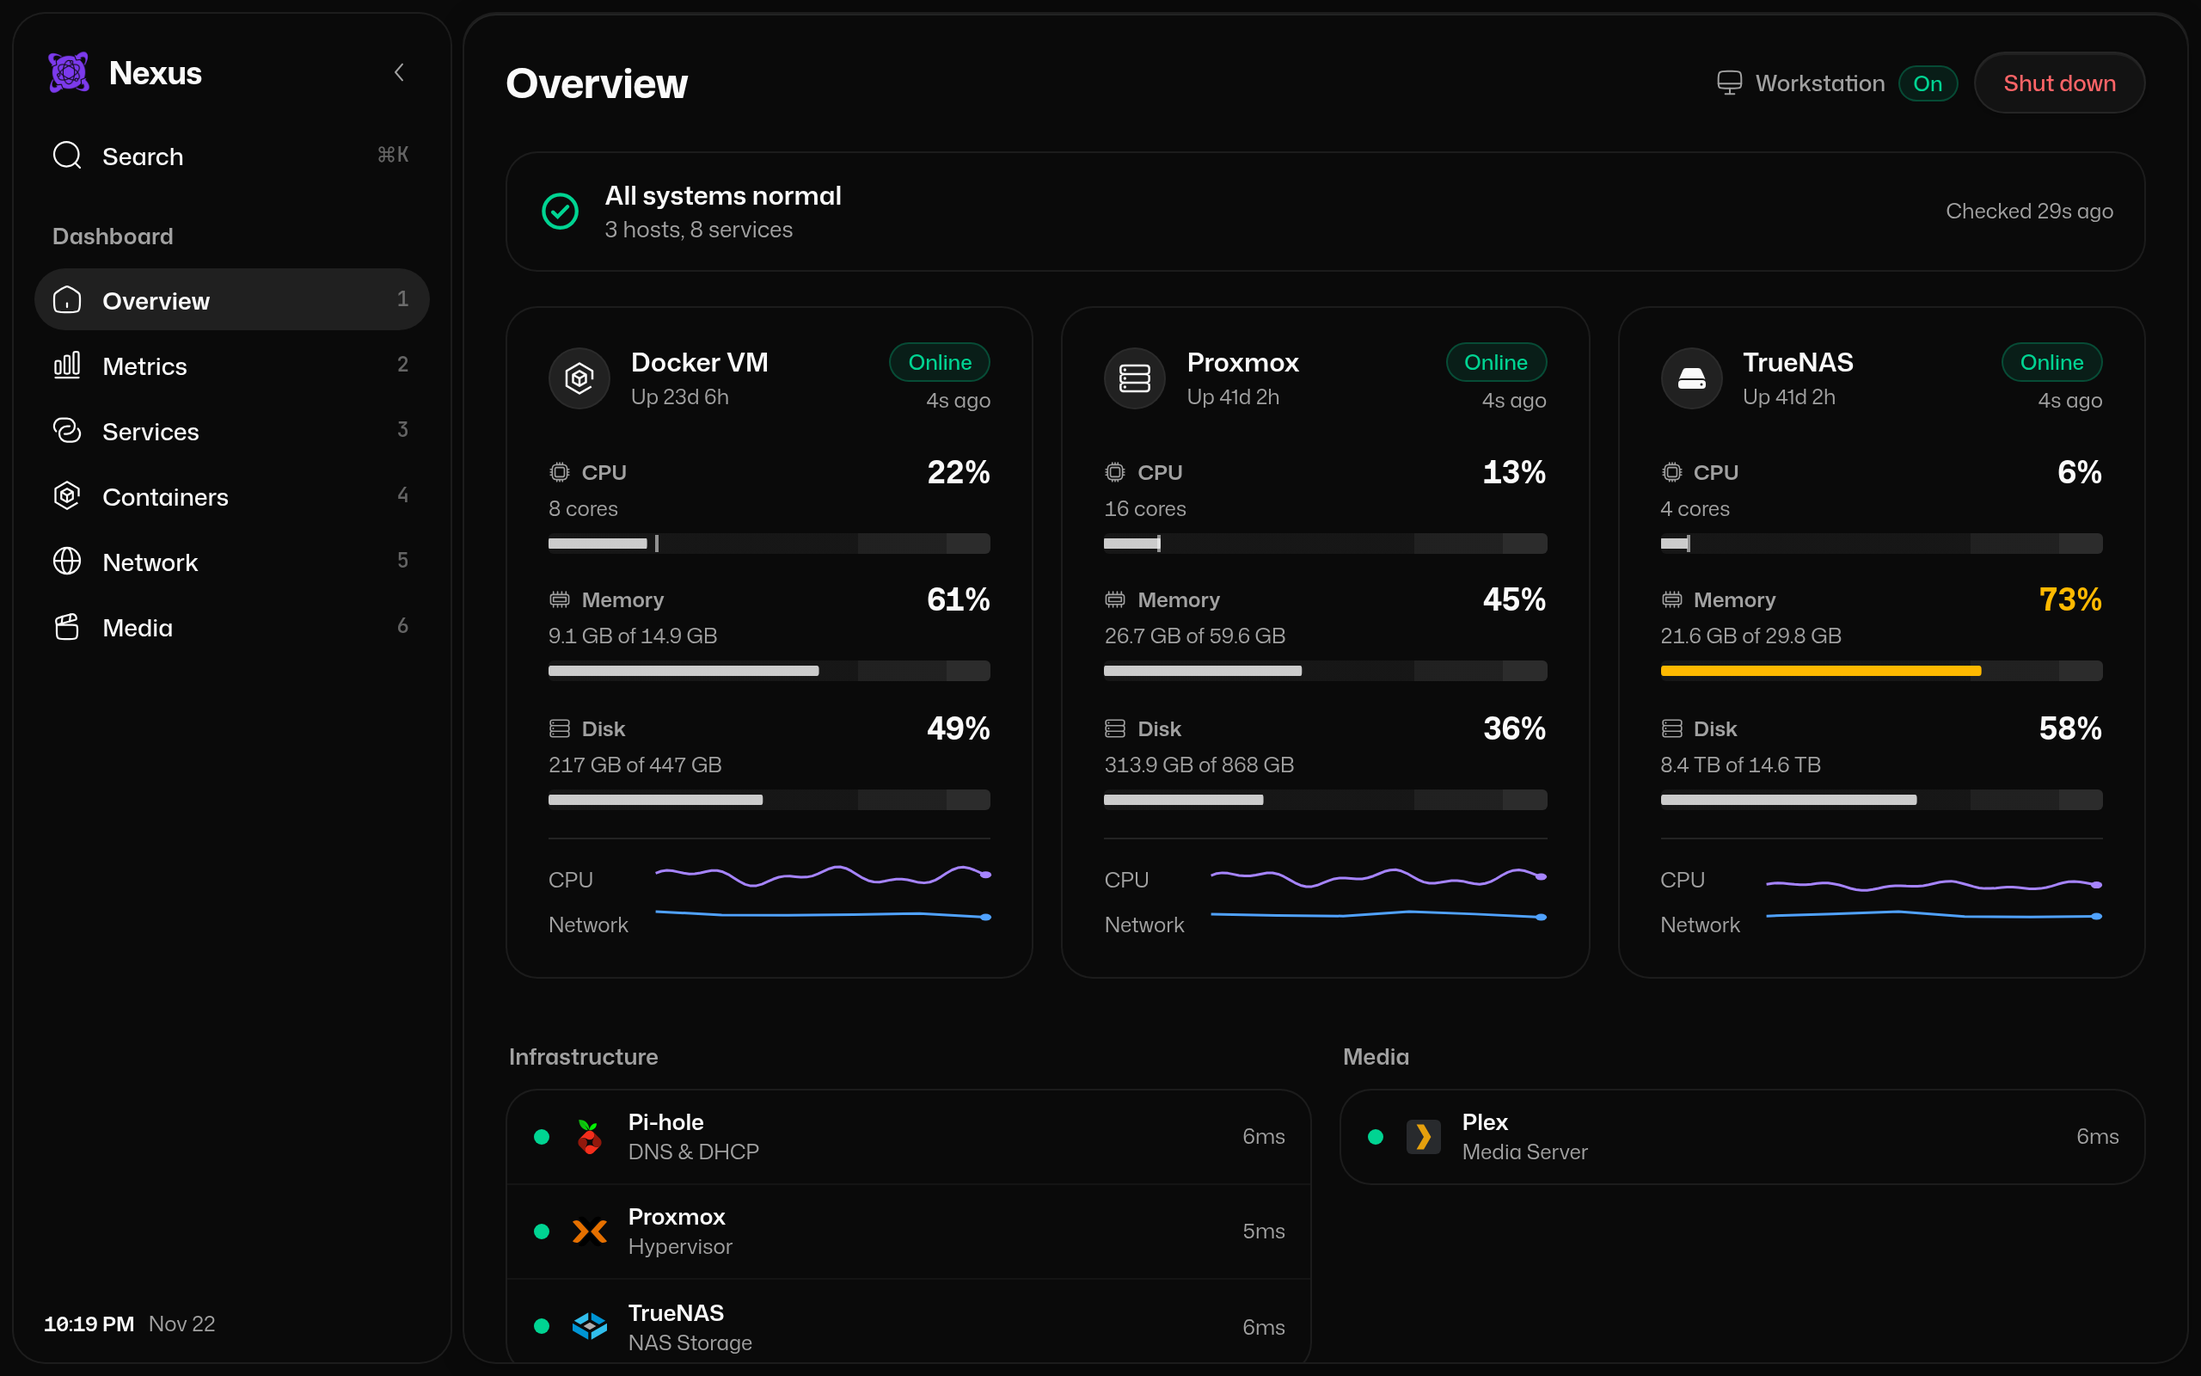
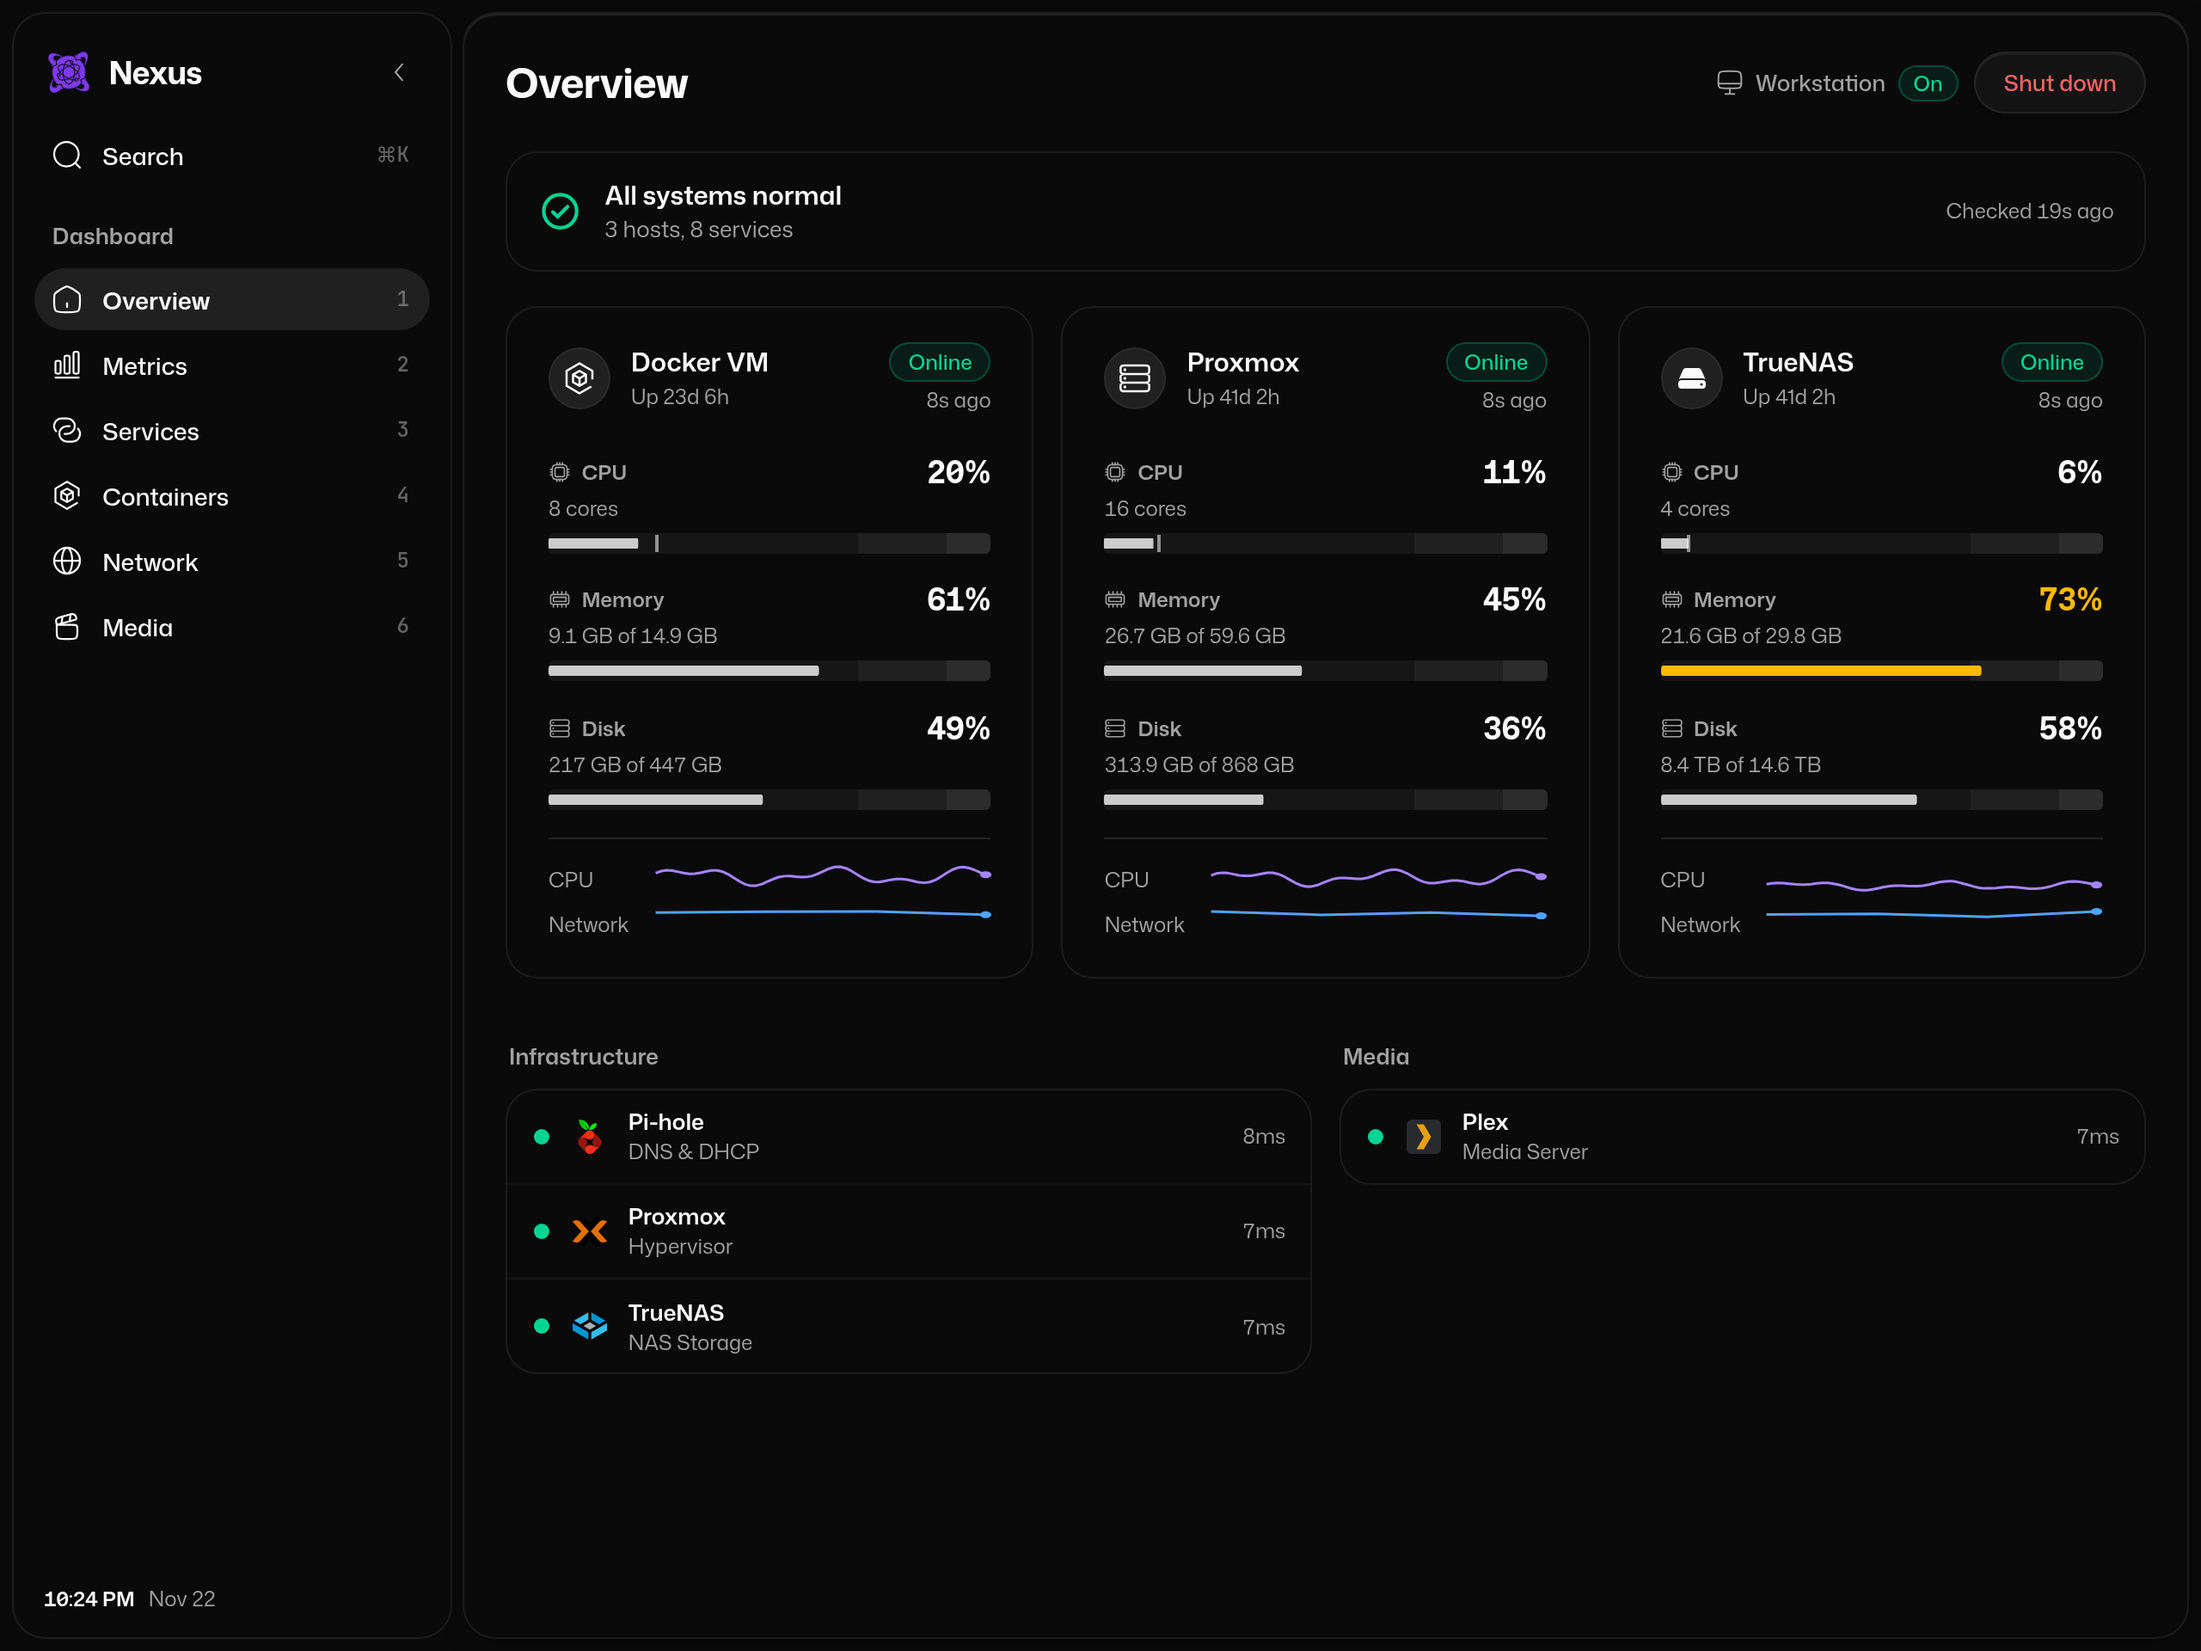
docs: add Containers and Network screenshots
Retake all three screenshots at 1280x960 so they match, with Playwright against mock upstreams.

diff --git a/README.md b/README.md
@@ -37,6 +37,12 @@ A UML component diagram. The SVG embeds its draw.io source, so open `docs/archit
 - **Keyboard** — `⌘K`/`Ctrl+K` or `/` searches pages, services, containers and power actions, `1`–`6` jump to pages; ranges, sorts and searches live in the URL
 - **Dark theme** — OKLCH tokens with separate status (`--ok/--warn/--crit`) and data-series colors; override `--text-*` on `:root` to scale the UI for a wall display
 
+## Screenshots
+
+| Containers | Network |
+|---|---|
+| ![The Containers page: Docker containers per host with status, CPU and memory](docs/containers.png) | ![The Network page: Pi-hole stats and an hour of traffic history per interface](docs/network.png) |
+
 ## Quick Start
 
 ```yaml
@@ -153,7 +159,7 @@ nexus/
 │   │   ├── types.ts        # Shared TypeScript interfaces, service-icon CDN base
 │   │   └── utils/          # Formatting, polling, hash-URL state, canvas chart helpers
 │   └── pages/              # Page-level components (one per route)
-├── docs/                   # Architecture diagram (draw.io SVG) and screenshot
+├── docs/                   # Architecture diagram (draw.io SVG) and screenshots
 ├── Dockerfile              # Multi-stage: build the client, run the server as the node user
 ├── vite.config.ts          # Svelte plugin; forwards /api to :3000 in development
 ├── LICENSE
